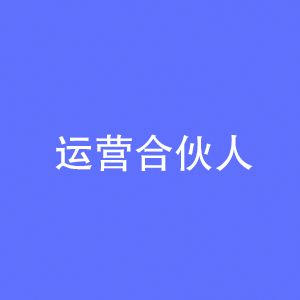
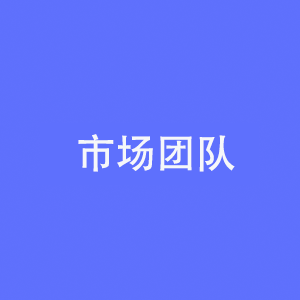
adjust team

Changed region(s): [[0.18, 0.45, 0.84, 0.57]]

diff --git a/index.html b/index.html
@@ -163,7 +163,7 @@
 	<div class="formats"> 
 		<h3>精选产品</h3>
 		<div class="w3-agileitsline"></div>
-		<p>海马医疗团队走访调研日本、韩国、泰国、美国、香港、新加坡、德国、匈牙利、英国、台湾等地近上百家专业机构，优选设计和提供产品。</p>
+		<p>海马医疗团队深度整合日本、韩国、泰国、美国、香港、新加坡、德国、匈牙利、英国、台湾等地近上百家专业医疗机构，优选设计和提供产品。</p>
 
 		<!-- Owl-Carousel -->
 		<div id="owl-demo" class="owl-carousel text-center">
@@ -346,6 +346,17 @@
 						</a>
 					</div>
 				</div>
+				<div class="col-md-4 col-sm-4 feature-wthree">
+					<div class="row features-item sans-shadow text-center">
+						<a href = "https://www.uzai.com/">
+							<img src="images/zxlv.jpg"/>
+							<div class="features-info">
+								<h4>众信旅游集团</h4>
+								<p>众信旅游主要从事出境游批发、出境游零售、整合营销服务业务，在欧美洲、大洋洲、非洲等长线及亚洲短线游上具有较强的竞争优势。</p>
+							</div>
+						</a>
+					</div>
+				</div>
 				<div class="clearfix"></div>
 			</div> 
 		</div>
@@ -399,29 +410,33 @@
 		<h3>核心团队</h3>
 		<div class="w3-agileitsline"></div> 
 		<div class="container">
-			<div class="col-md-2 col-sm-2 new-w3lsgrid">
+			<div class="member">
 				<img src="images/csr.png" alt="Veg Mores">
-				<p>曾任平安集团全球医疗网络负责人、海峡两岸医药卫生交流协会国际医疗特需服务专业委员会常委、北京中关村移动医疗专业委员会专委，香港天创科技集团董事等。</p>
+				<p>曾任职平安集团和阜外医院集团，具备丰富的全球医疗网络管理和医疗健康跨境并购整合经验，多家顶级医疗机构、健康保险金融公司和医疗智能科技企业的创设、管理及运营。</p>
 			</div>
-			<div class="col-md-2 col-sm-2 new-w3lsgrid">
+			<div class="member">
 				<img src="images/xs.png" alt="Veg Mores">
-				<p>海马医疗创始团队具有多年海外医疗从业背景和行业经验</p>
+				<p>具备跨界医药服务、互联网和旅游产品设计和管理经验，在全球医疗资源整合和产品开发方面具有深厚积累以及海外医疗团队的卓越专业优势。</p>
 			</div>
-			<div class="col-md-2 col-sm-2 new-w3lsgrid">
+			<div class="member">
 				<img src="images/sw.png" alt="Veg Mores">
-				<p>海马医疗创始团队具有多年海外医疗从业背景和行业经验</p>
+				<p>曾在微软、SAP、贝尔实验室、用友及神州数码等知名企业任职，主导设计开发多个医疗IT系统和云平台，具有美国大数据专利和医疗算法优势。</p>
 			</div>
-			<div class="col-md-2 col-sm-2 new-w3lsgrid">
+			<div class="member">
 				<img src="images/js.png" alt="Veg Mores">
-				<p>10年以上IT行业技术背景，曾在多家知名企业任职，具有丰富的系统架构和互联网研发经验。</p>
+				<p>曾任职于新浪、今日头条和去哪儿网，具有优秀的移动互联网和旅游平台的运营管理优势。</p>
 			</div>
-			<div class="col-md-2 col-sm-2 new-w3lsgrid">
+			<div class="member">
 				<img src="images/yy.png" alt="Veg Mores">
-				<p>曾在今日头条等著名企业从事过运营工作，实战经验丰富。</p>
+				<p>具备国内医疗健康、旅游服务、消费金融和资产配置产品的分销渠道管理经验，并在数字化营销、品牌建立和渠道拓展方面有多个成功案例。</p>
 			</div>
-			<div class="col-md-2 col-sm-2 new-w3lsgrid">
+			<div class="member">
 				<img src="images/fw.png" alt="Veg Mores">
-				<p>曾任多家上市公司法律顾问，商业法律经验丰富。</p>
+				<p>国内领先的涉外法律专业团队，多家上市公司法律顾问经验和涉外法律处理经验。</p>
+			</div>
+			<div class="member">
+				<img src="images/fw.png" alt="Veg Mores">
+				<p>国际顶级医学专家和国内知名三甲医院专家团队强强联合，上万例高端会员服务经验。</p>
 			</div>
 			<div class="clearfix"></div>
 		</div> 

diff --git a/css/style.css b/css/style.css
@@ -252,7 +252,7 @@ ul.callbacks_tabs.callbacks1_tabs {
 	padding: 50px 0 30px;
 } 
 .about p{
-	font-size: 10px;
+	font-size: 12px;
 } 
 .about h3 {
 	padding: 0 50px;
@@ -436,12 +436,20 @@ ul.callbacks_tabs.callbacks1_tabs {
     text-align: left;
     margin-left: 2em;
 }
-
+.new .container {
+    display: flex;
+    flex-flow: row wrap;
+    align-content: flex-start;
+}
+.new .container .member{
+	flex: 1;
+	margin: 0 3px;
+}
 .new-w3lsgrid ul {
     margin: 30px 0 0 50px;
 }
 .new img {
-    width: 150px;
+    width: 130px;
     border: 3px solid #fff;
 	-webkit-border-radius: 50%;
 	-moz-border-radius: 50%;
